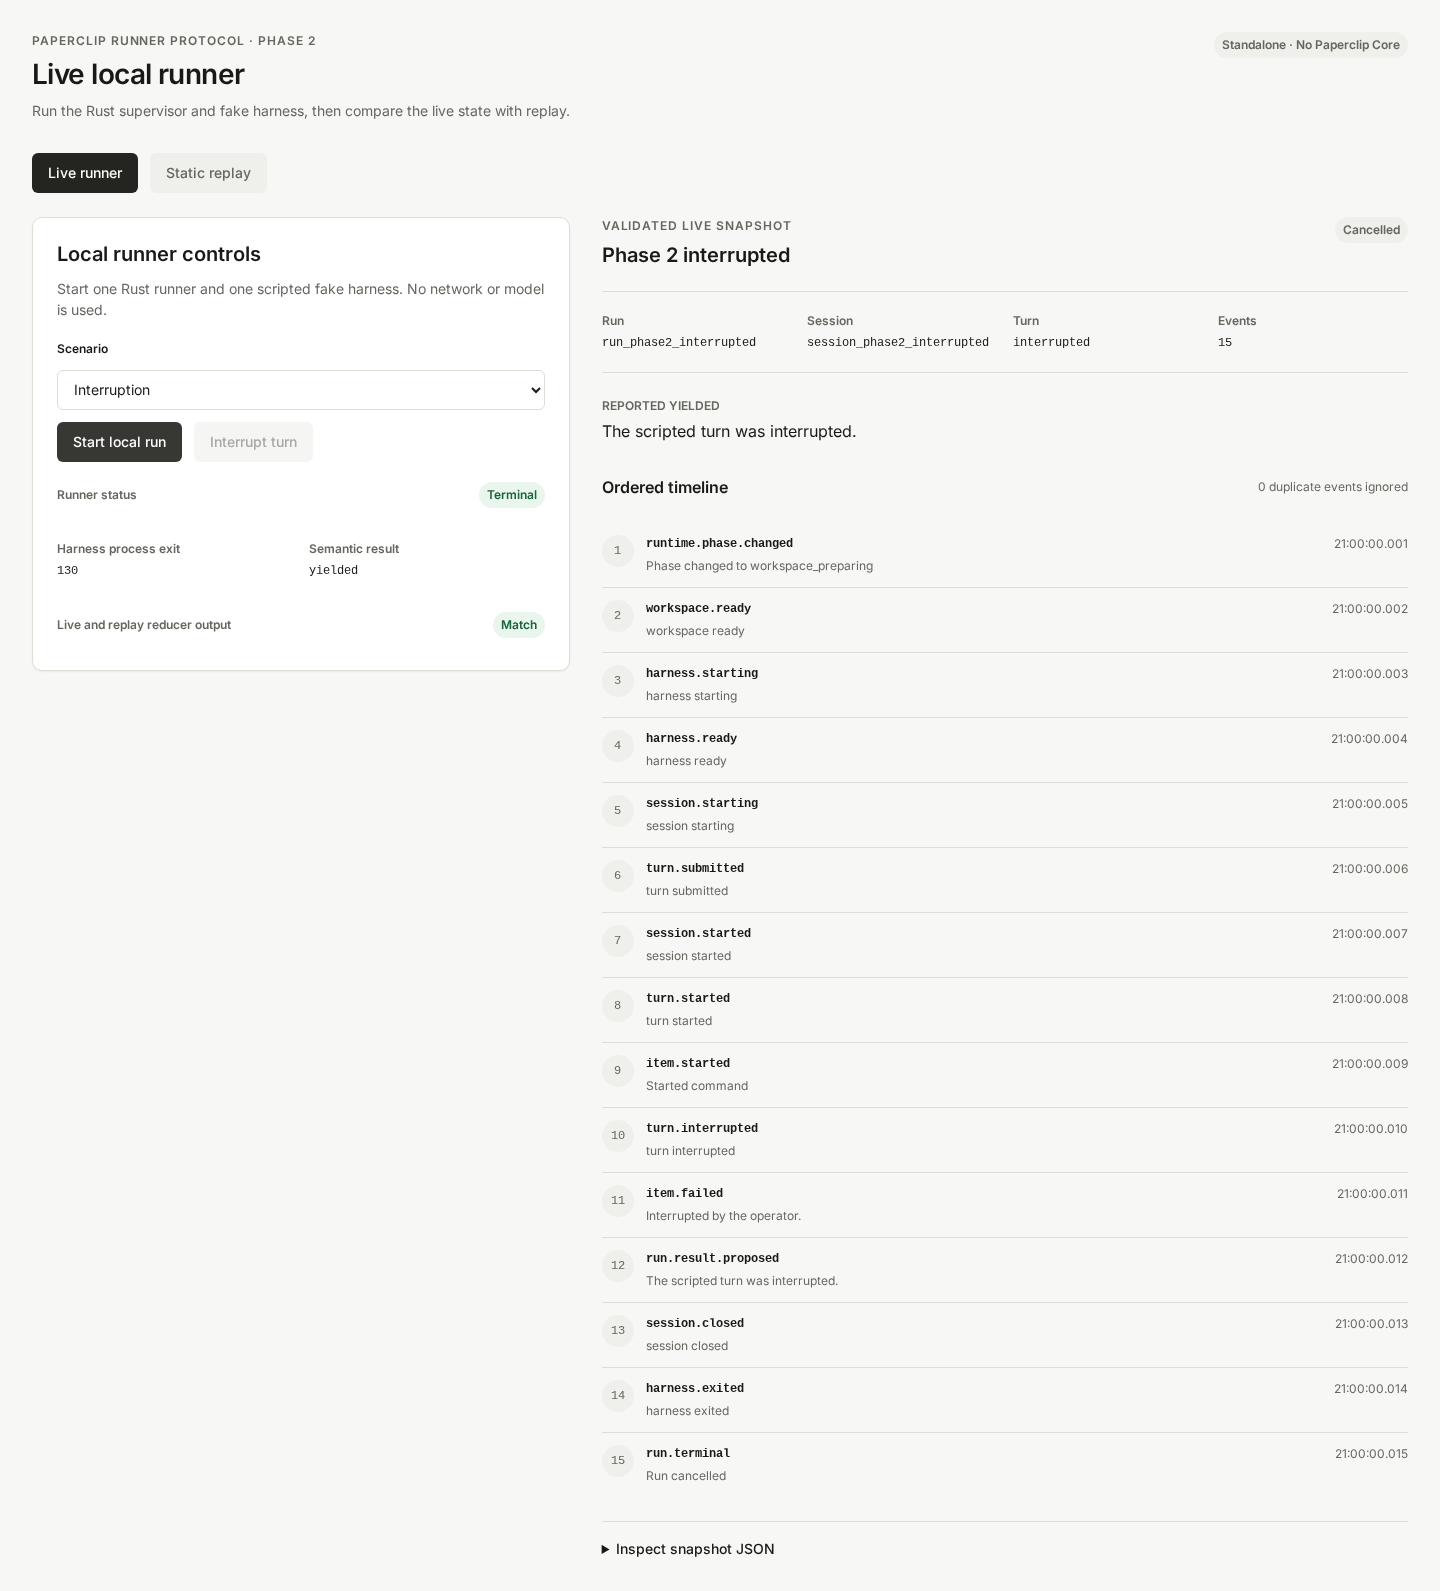
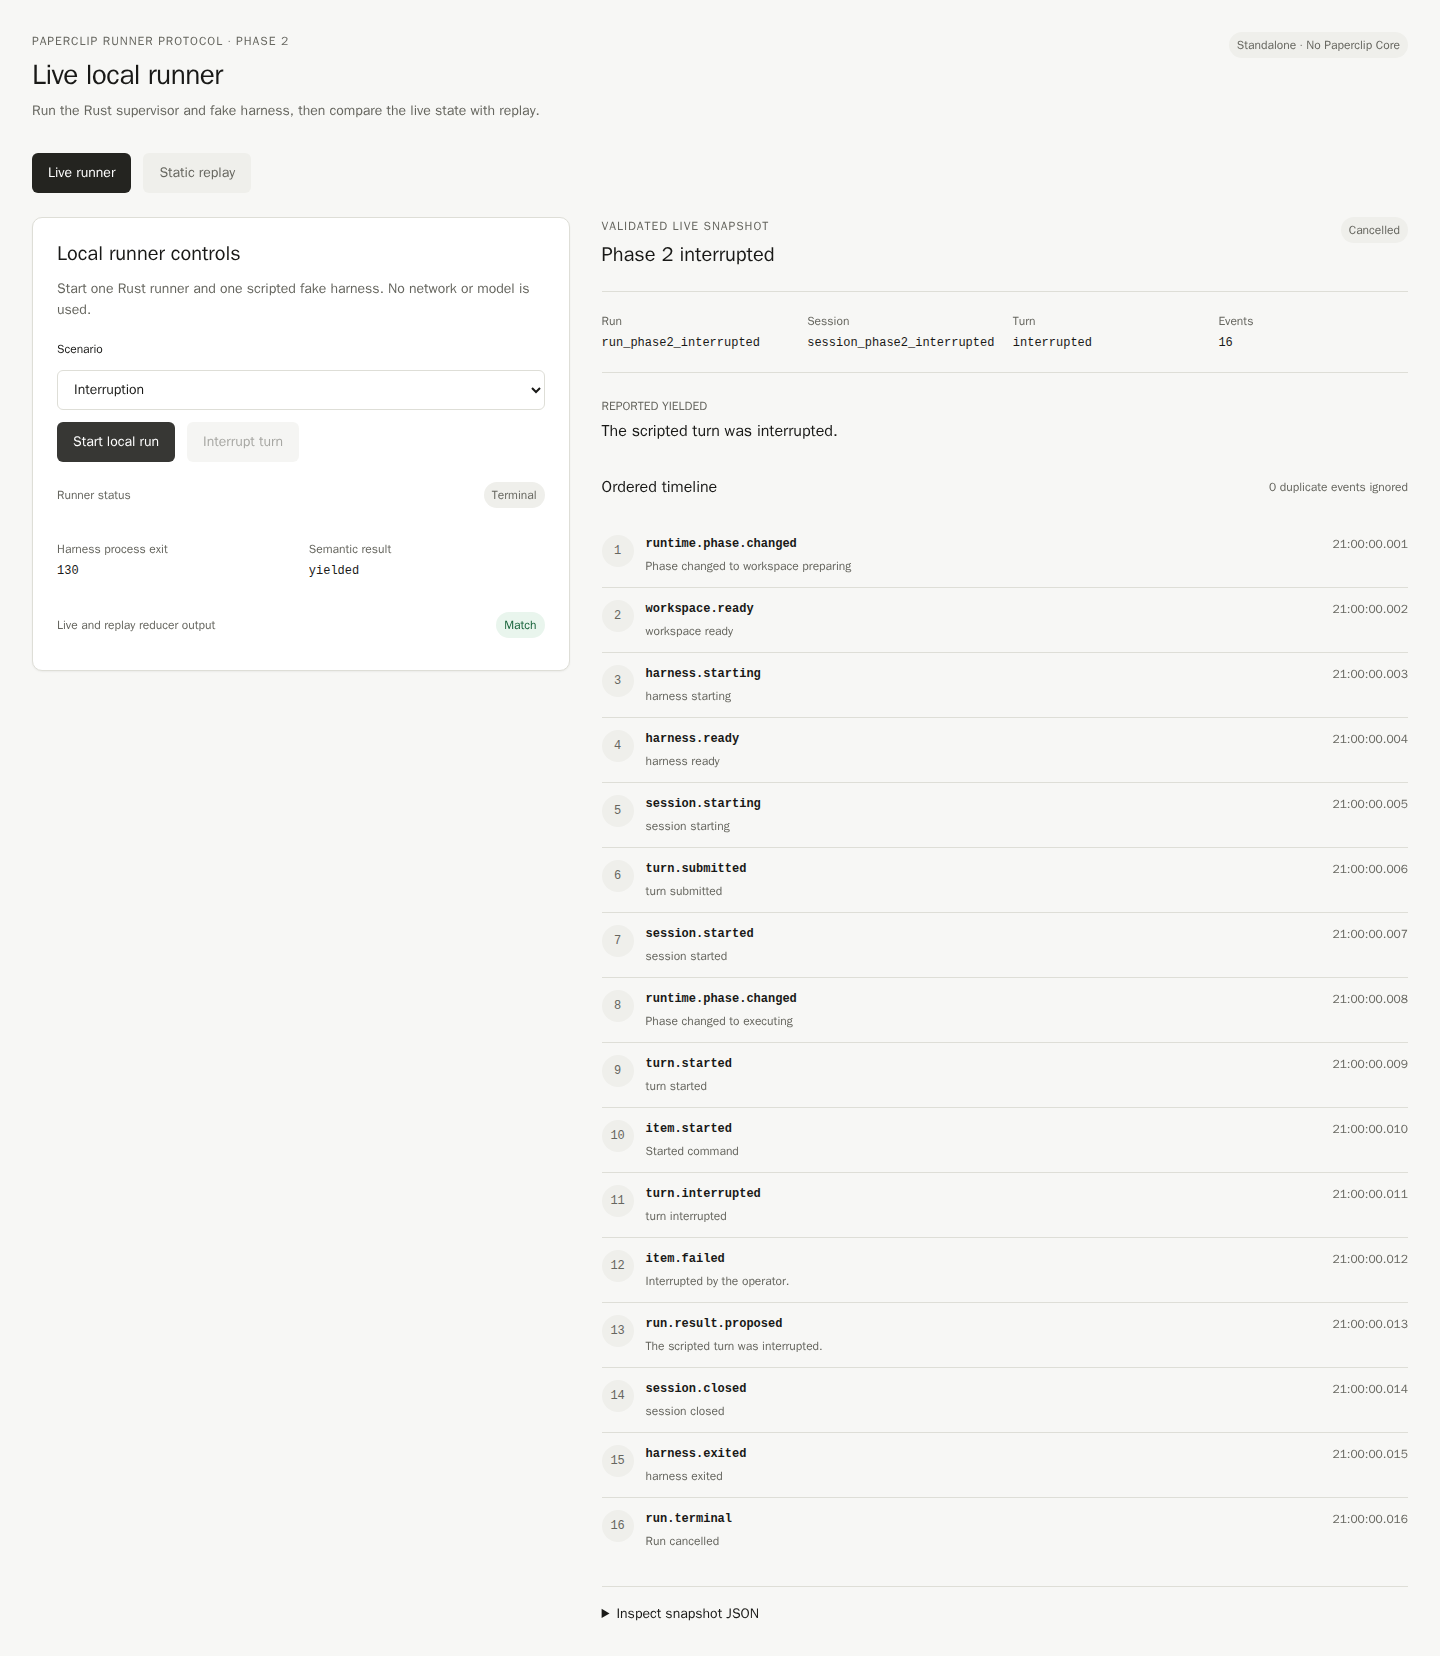
fix(runner): polish live browser diagnostics

diff --git a/packages/paperclip-runner/devtools/browser/static-replay.spec.ts b/packages/paperclip-runner/devtools/browser/static-replay.spec.ts
@@ -8,8 +8,9 @@ test("validates and renders the shared Phase 1 fixture", async ({ page }) => {
   await page.goto("/");
   await page.getByRole("button", { name: "Static replay" }).click();
   await expect(page.getByRole("heading", { name: "Live local runner" })).toBeVisible();
-  await expect(page.getByTestId("terminal-badge")).toHaveText("succeeded");
+  await expect(page.getByTestId("terminal-badge")).toHaveText("Succeeded");
   await expect(page.getByTestId("timeline").getByRole("listitem")).toHaveCount(9);
+  await expect(page.getByTestId("timeline")).not.toContainText("workspace_preparing");
   await expect(page.getByTestId("result-summary")).toContainText(
     "The scripted run completed successfully.",
   );
@@ -34,8 +35,8 @@ test("shows duplicate and unsupported-version replay states", async ({ page }) =
 test("streams a live run and proves replay parity", async ({ page }) => {
   await page.goto("/");
   await page.getByRole("button", { name: "Start local run" }).click();
-  await expect(page.getByTestId("live-status")).toHaveText("terminal");
-  await expect(page.getByTestId("terminal-badge")).toHaveText("succeeded");
+  await expect(page.getByTestId("live-status")).toHaveText("Terminal");
+  await expect(page.getByTestId("terminal-badge")).toHaveText("Succeeded");
   await expect(page.getByTestId("process-facts")).toContainText("Harness process exit");
   await expect(page.getByTestId("process-facts")).toContainText("done");
   await expect(page.getByTestId("parity-result")).toContainText("Match");
@@ -50,15 +51,26 @@ test("resolves live permission and input requests", async ({ page }) => {
   await page.getByLabel("Scenario").selectOption("permission-input");
   await page.getByRole("button", { name: "Start local run" }).click();
   await expect(page.getByTestId("runtime-request")).toContainText("permission request");
+  await expect(page.getByTestId("terminal-badge")).toHaveText("Executing");
+  await expect(
+    page.getByTestId("timeline").getByRole("listitem").filter({
+      hasText: "runtime_request.created",
+    }).first(),
+  ).toContainText("permission: Allow the fake driver to write its local fixture?");
   await page.screenshot({
     path: resolve(packageRoot, "knowledge/evidence/phase-02-live-permission.png"),
     fullPage: true,
   });
   await page.getByRole("button", { name: "Allow" }).click();
   await expect(page.getByTestId("runtime-request")).toContainText("input request");
+  await expect(
+    page.getByTestId("timeline").getByRole("listitem").filter({
+      hasText: "runtime_request.resolved",
+    }).first(),
+  ).toContainText("Resolved permission: Allow the fake driver to write its local fixture?");
   await page.getByLabel("Response").fill("phase-02-browser-trace");
   await page.getByRole("button", { name: "Send input" }).click();
-  await expect(page.getByTestId("live-status")).toHaveText("terminal");
+  await expect(page.getByTestId("live-status")).toHaveText("Terminal");
   await expect(page.getByTestId("parity-result")).toContainText("Match");
 });
 
@@ -69,11 +81,34 @@ test("interrupts a live turn without duplicating terminal state", async ({ page 
   const interrupt = page.getByRole("button", { name: "Interrupt turn" });
   await expect(interrupt).toBeEnabled();
   await interrupt.click();
-  await expect(page.getByTestId("live-status")).toHaveText("terminal");
-  await expect(page.getByTestId("terminal-badge")).toHaveText("cancelled");
+  await expect(page.getByTestId("live-status")).toHaveText("Terminal");
+  await expect(page.getByTestId("terminal-badge")).toHaveText("Cancelled");
+  await expect(page.getByTestId("live-status")).toHaveAttribute("data-tone", "neutral");
+  await expect(page.getByTestId("terminal-badge")).toHaveAttribute("data-tone", "neutral");
   await expect(page.getByTestId("timeline").getByText("run.terminal")).toHaveCount(1);
   await page.screenshot({
     path: resolve(packageRoot, "knowledge/evidence/phase-02-live-interrupted.png"),
     fullPage: true,
   });
+});
+
+test("shows failed outcomes as danger and names the duplicate-terminal guard", async ({ page }) => {
+  await page.goto("/");
+  await page.getByLabel("Scenario").selectOption("error");
+  await page.getByRole("button", { name: "Start local run" }).click();
+  await expect(page.getByTestId("live-status")).toHaveText("Terminal");
+  await expect(page.getByTestId("live-status")).toHaveAttribute("data-tone", "danger");
+  await expect(page.getByTestId("terminal-badge")).toHaveText("Failed");
+  await expect(page.getByTestId("terminal-badge")).toHaveAttribute("data-tone", "danger");
+
+  await page.getByLabel("Scenario").selectOption("duplicate-terminal");
+  await page.getByRole("button", { name: "Start local run" }).click();
+  await expect(page.getByTestId("live-status")).toHaveText("Terminal");
+  await expect(
+    page.getByTestId("timeline").getByRole("listitem").filter({
+      hasText: "harness.diagnostic",
+    }),
+  ).toContainText(
+    "Duplicate terminal event ignored; the first terminal event remains authoritative.",
+  );
 });

diff --git a/packages/paperclip-runner/src/reducer/session-reducer.ts b/packages/paperclip-runner/src/reducer/session-reducer.ts
@@ -27,6 +27,7 @@ export interface SessionItemSnapshot {
 export interface SessionRequestSnapshot {
   requestId: string;
   requestKind: string;
+  type: string;
   status: string;
   prompt: string;
 }
@@ -80,10 +81,23 @@ function sourceKey(event: PrpEvent): string {
   return `${event.sourceKind}:${event.sourceInstanceId}`;
 }
 
-function timelineSummary(event: PrpEvent): string {
+function humanizeProtocolValue(value: string): string {
+  return value.replaceAll("_", " ");
+}
+
+function sentenceCase(value: string): string {
+  return value.length === 0 ? value : `${value[0]?.toUpperCase()}${value.slice(1)}`;
+}
+
+function requestSummary(type: string, prompt: string, action?: string): string {
+  const detail = prompt.length > 0 ? `${type}: ${prompt}` : `${type} request`;
+  return action === undefined ? detail : `${action} ${detail}`;
+}
+
+function timelineSummary(snapshot: SessionSnapshot, event: PrpEvent): string {
   const payload = record(event.payload);
   if (event.eventType === "runtime.phase.changed") {
-    return `Phase changed to ${stringValue(payload.phase, "unknown")}`;
+    return `Phase changed to ${humanizeProtocolValue(stringValue(payload.phase, "unknown"))}`;
   }
   if (event.eventType === "item.started") {
     return `Started ${stringValue(payload.kind, "item")}`;
@@ -102,6 +116,40 @@ function timelineSummary(event: PrpEvent): string {
   }
   if (event.eventType === "run.terminal") {
     return `Run ${stringValue(payload.runTerminalState, "terminal")}`;
+  }
+  if (
+    event.eventType === "runner.diagnostic" ||
+    event.eventType === "harness.diagnostic"
+  ) {
+    const message = stringValue(payload.message);
+    if (message.length > 0) {
+      return message;
+    }
+    const code = stringValue(payload.code);
+    if (code.length > 0) {
+      return sentenceCase(humanizeProtocolValue(code));
+    }
+  }
+  if (event.eventType === "runtime_request.created") {
+    const request = record(payload.request ?? payload);
+    return requestSummary(
+      stringValue(request.type, "runtime"),
+      stringValue(request.prompt),
+    );
+  }
+  if (
+    event.eventType === "runtime_request.resolved" ||
+    event.eventType === "runtime_request.expired" ||
+    event.eventType === "runtime_request.cancelled"
+  ) {
+    const requestId = stringValue(payload.requestId);
+    const request = snapshot.requests.find((candidate) => candidate.requestId === requestId);
+    const action = sentenceCase(
+      humanizeProtocolValue(event.eventType.split(".").at(-1) ?? "updated"),
+    );
+    return request === undefined
+      ? `${action} runtime request ${requestId}`.trim()
+      : requestSummary(request.type, request.prompt, action);
   }
   return event.eventType.replaceAll(".", " ");
 }
@@ -191,6 +239,7 @@ function applyProjection(snapshot: SessionSnapshot, event: PrpEvent): void {
         snapshot.requests.push({
           requestId,
           requestKind: stringValue(request.requestKind, "runtime"),
+          type: stringValue(request.type, "runtime"),
           status: stringValue(request.status, "pending"),
           prompt: stringValue(request.prompt),
         });
@@ -307,7 +356,7 @@ export function applyPrpEvent(
     eventType: event.eventType,
     emittedAt: event.emittedAt,
     ...(event.itemId === undefined ? {} : { itemId: event.itemId }),
-    summary: timelineSummary(event),
+    summary: timelineSummary(snapshot, event),
   });
   applyProjection(snapshot, event);
   snapshot.integrity =

diff --git a/packages/paperclip-runner/devtools/browser/src/App.tsx b/packages/paperclip-runner/devtools/browser/src/App.tsx
@@ -84,6 +84,27 @@ function terminalTone(snapshot: SessionSnapshot) {
   return "neutral" as const;
 }
 
+function humanizeProtocolLabel(value: string): string {
+  const words = value.replaceAll("_", " ");
+  return words.length === 0 ? words : `${words[0]?.toUpperCase()}${words.slice(1)}`;
+}
+
+function liveStatusTone(status: LiveStatus, snapshot: SessionSnapshot | null) {
+  if (status === "error") {
+    return "danger" as const;
+  }
+  if (status !== "terminal") {
+    return "neutral" as const;
+  }
+  if (snapshot?.terminal?.runTerminalState === "succeeded") {
+    return "success" as const;
+  }
+  if (snapshot?.terminal?.runTerminalState === "failed") {
+    return "danger" as const;
+  }
+  return "neutral" as const;
+}
+
 function SnapshotSummary({
   snapshot,
   label = "Session snapshot",
@@ -99,9 +120,11 @@ function SnapshotSummary({
           <h2>{snapshot.fixtureName}</h2>
         </div>
         <Badge tone={terminalTone(snapshot)} data-testid="terminal-badge">
-          {snapshot.integrity === "gap_detected"
-            ? "Gap detected"
-            : (snapshot.terminal?.runTerminalState ?? snapshot.runPhase)}
+          {humanizeProtocolLabel(
+            snapshot.integrity === "gap_detected"
+              ? "Gap detected"
+              : (snapshot.terminal?.runTerminalState ?? snapshot.runPhase),
+          )}
         </Badge>
       </div>
 
@@ -126,7 +149,9 @@ function SnapshotSummary({
 
       {snapshot.proposedResult ? (
         <div className="result-summary" data-testid="result-summary">
-          <span>Reported {snapshot.proposedResult.reportedWorkDisposition}</span>
+          <span>
+            Reported {humanizeProtocolLabel(snapshot.proposedResult.reportedWorkDisposition)}
+          </span>
           <p>{snapshot.proposedResult.summary}</p>
         </div>
       ) : null}
@@ -366,10 +391,10 @@ function LiveRunner() {
           <div className="live-status" aria-live="polite">
             <span>Runner status</span>
             <Badge
-              tone={status === "error" ? "danger" : status === "terminal" ? "success" : "neutral"}
+              tone={liveStatusTone(status, snapshot)}
               data-testid="live-status"
             >
-              {status}
+              {humanizeProtocolLabel(status)}
             </Badge>
           </div>
 

diff --git a/packages/paperclip-runner/src/reducer/session-reducer.test.ts b/packages/paperclip-runner/src/reducer/session-reducer.test.ts
@@ -2,8 +2,13 @@ import { readFile } from "node:fs/promises";
 
 import { describe, expect, it } from "vitest";
 
-import { parsePrpFixtureText, type PrpFixture } from "../protocol/phase1-contract.js";
 import {
+  parsePrpFixtureText,
+  type PrpEvent,
+  type PrpFixture,
+} from "../protocol/phase1-contract.js";
+import {
+  createSessionSnapshot,
   reducePrpFixture,
   reduceSessionEvents,
   type SessionSnapshot,
@@ -68,6 +73,36 @@ describe("deterministic PRP session reducer", () => {
         received: 4,
         missing: [3],
       },
+    ]);
+  });
+
+  it("summarizes runtime request creation and resolution with type and prompt", async () => {
+    const fixture = await loadFixture("interrupted-run");
+    const fixtureRequest = fixture.events.find(
+      (event) => event.eventType === "runtime_request.created",
+    );
+    if (fixtureRequest === undefined) {
+      throw new Error("interrupted-run fixture must create a runtime request");
+    }
+    const created: PrpEvent = {
+      ...fixtureRequest,
+      sourceEventId: "event_request_summary_01",
+      sourceSeq: 1,
+    };
+    const resolved: PrpEvent = {
+      ...fixtureRequest,
+      sourceEventId: "event_request_summary_02",
+      sourceSeq: 2,
+      eventType: "runtime_request.resolved",
+      payload: { requestId: "request_interrupted_permission" },
+    };
+
+    const snapshot = reduceSessionEvents(createSessionSnapshot(fixture), [created, resolved]);
+
+    expect(snapshot.requests[0]).toMatchObject({ type: "permission" });
+    expect(snapshot.timeline.map((entry) => entry.summary)).toEqual([
+      "permission: Allow the fake command?",
+      "Resolved permission: Allow the fake command?",
     ]);
   });
 });

diff --git a/packages/paperclip-runner/src/mock-core/phase2-local-runner.test.ts b/packages/paperclip-runner/src/mock-core/phase2-local-runner.test.ts
@@ -20,6 +20,14 @@ describe.sequential("Phase 2 local runner and fake harness", () => {
 
     expect(eventTypes).toContain("harness.ready");
     expect(eventTypes).toContain("item.completed");
+    const sessionStartedIndex = eventTypes.indexOf("session.started");
+    const executingIndex = trace.events.findIndex(
+      (event) =>
+        event.eventType === "runtime.phase.changed" &&
+        (event.payload as Record<string, unknown>).phase === "executing",
+    );
+    expect(executingIndex).toBeGreaterThan(sessionStartedIndex);
+    expect(executingIndex).toBeLessThan(eventTypes.indexOf("turn.started"));
     expect(trace.events.some((event) => event.itemId === "item_phase2_file")).toBe(true);
     expect(trace.result?.reportedWorkDisposition).toBe("done");
     expect(trace.harnessProcessExit).toEqual({ exitCode: 0, success: true, signal: null });
@@ -99,6 +107,13 @@ describe.sequential("Phase 2 local runner and fake harness", () => {
             "duplicate_terminal_ignored",
       ),
     ).toBe(true);
+    expect(
+      replayPhase2Events(trace, trace.events).timeline.find(
+        (event) => event.eventType === "harness.diagnostic",
+      )?.summary,
+    ).toBe(
+      "Duplicate terminal event ignored; the first terminal event remains authoritative.",
+    );
   });
 
   it("keeps an error process exit distinct from its semantic result", async () => {

diff --git a/packages/paperclip-runner/runner/crates/runner-core/src/phase2.rs b/packages/paperclip-runner/runner/crates/runner-core/src/phase2.rs
@@ -775,7 +775,10 @@ impl RunnerState {
                 } else {
                     self.emit_event(
                         "harness.diagnostic",
-                        json!({ "code": "duplicate_semantic_result_ignored" }),
+                        json!({
+                            "code": "duplicate_semantic_result_ignored",
+                            "message": "Duplicate semantic result ignored; the first result remains authoritative."
+                        }),
                         None,
                         None,
                     )?;
@@ -791,7 +794,10 @@ impl RunnerState {
                 } else {
                     self.emit_event(
                         "harness.diagnostic",
-                        json!({ "code": "duplicate_terminal_ignored" }),
+                        json!({
+                            "code": "duplicate_terminal_ignored",
+                            "message": "Duplicate terminal event ignored; the first terminal event remains authoritative."
+                        }),
                         None,
                         None,
                     )?;
@@ -1019,6 +1025,12 @@ pub fn run_fake_harness(
         None,
         None,
         json!({ "driverSessionId": "driver_phase2_fake" }),
+    )?;
+    output.send_event(
+        "runtime.phase.changed",
+        None,
+        None,
+        json!({ "phase": "executing" }),
     )?;
     let turn = receive_harness_command(&command_receiver, "turn.start", None)?;
     let turn_id = turn
